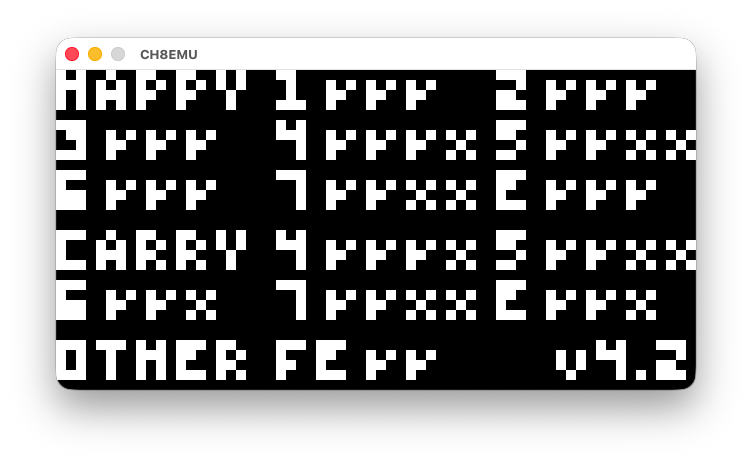
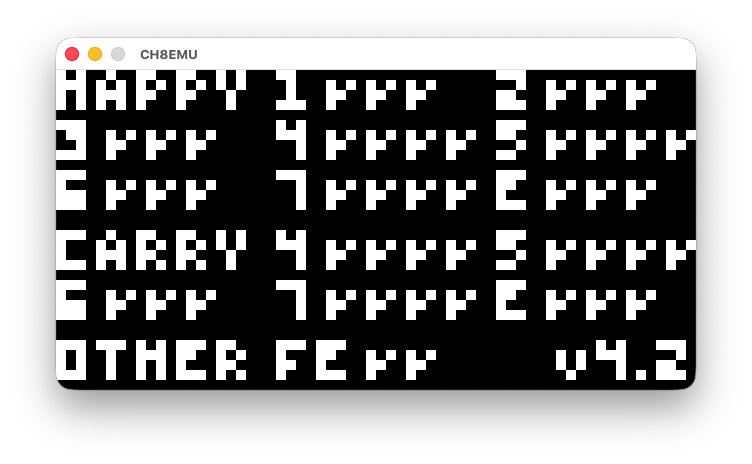
BUGFIX: memery release fix

diff --git a/CHIP8/Source/main.cpp b/CHIP8/Source/main.cpp
@@ -7,32 +7,21 @@
  * and passes targeting control down to the game loop matrix.
  */
 int main(int argc, char* argv[]) {
-    // 1. Establish standard target fallbacks if no argument is supplied
-    const char* targetRomName = "1-chip8-logo.ch8";
-
-    // 2. Overwrite standard target if an explicit path parameter is provided
-    if (argc >= 2) {
-        targetRomName = argv[1];
+    // Gracefully handle arguments safely without static stack buffer allocations
+    const char* romTarget = "flags.ch8";
+    if (argc > 1) {
+        romTarget = argv[1];
     }
 
-    SDL_Log("Booting Core Master Engine Execution Sequence...");
-    SDL_Log("Targeting ROM: %s", targetRomName);
-
-    // 3. Stack-allocate the main SDLEMU game framework loop container
-    SDLEMU game;
-
-    // 4. Initialize physical hardware windowing and audio device handles
-    if (!game.init()) {
-        SDL_LogCritical(SDL_LOG_CATEGORY_APPLICATION, "Fatal Boot Error: Game layer initialization failed.");
-        return -1;
+    // Allocate on the heap or as an object instance safely scoped
+    SDLEMU* app = new SDLEMU();
+    
+    if (app->init()) {
+        app->run(romTarget);
     }
+    
+    app->release();
+    delete app; // Completely flushes scope memory tracking profiles before returning
 
-    // 5. Ingest ROM and handover thread scheduling to the master loop execution phase
-    game.run(targetRomName);
-
-    // 6. Explicitly release window contexts and power down hardware motherboard lanes
-    game.release();
-
-    SDL_Log("Core Master Engine safely powered down. Exiting cleanly.");
     return 0;
 }

diff --git a/CHIP8/Source/sdlemu.cpp b/CHIP8/Source/sdlemu.cpp
@@ -172,13 +172,21 @@ void SDLEMU::run(const char* romName) {
     const char* searchPaths[] = { resourcePath, "./Resources/", "./" };
     void* romBuffer = nullptr;
     size_t fileSize = 0;
-    char* fullRomLocationPath = nullptr;
 
-    for (int i = 0; i < 3 && !romBuffer; ++i) {
+    for (int i = 0; i < 3; ++i) {
+        char* fullRomLocationPath = nullptr;
+        // Check paths carefully
+        if (searchPaths[i] == nullptr) continue;
+
         SDL_asprintf(&fullRomLocationPath, "%s%s", searchPaths[i], romName);
-        romBuffer = SDL_LoadFile(fullRomLocationPath, &fileSize);
-        if (fullRomLocationPath) SDL_free(fullRomLocationPath);
-        fullRomLocationPath = nullptr;
+        if (fullRomLocationPath) {
+            romBuffer = SDL_LoadFile(fullRomLocationPath, &fileSize);
+            SDL_free(fullRomLocationPath); // Free immediately after load check
+        }
+        
+        if (romBuffer) {
+            break; // Successfully found and loaded file
+        }
     }
 
     if (!romBuffer) {
@@ -196,6 +204,7 @@ void SDLEMU::run(const char* romName) {
     Uint64 pastPerformanceCounterTick = SDL_GetPerformanceCounter();
     const double performanceCounterFrequency = static_cast<double>(SDL_GetPerformanceFrequency());
 
+    // Main Engine Lifecycle loop
     while (isRunning) {
         Uint64 currentTickCount = SDL_GetPerformanceCounter();
         double elapsedDeltaTimeSeconds = static_cast<double>(currentTickCount - pastPerformanceCounterTick) / performanceCounterFrequency;
